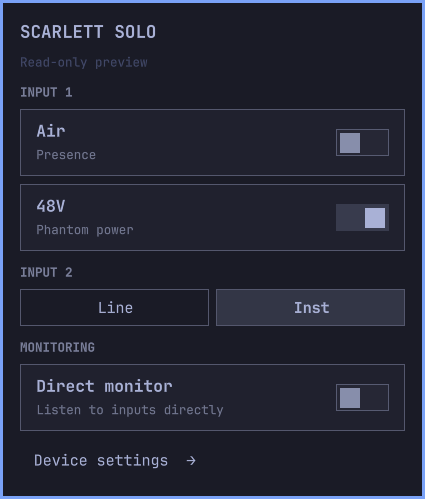
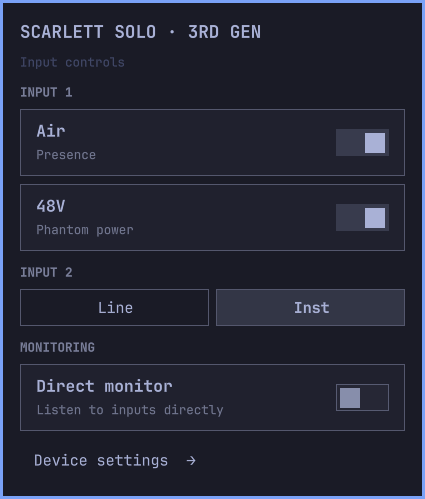
Clarify Scarlett use case and setup with refreshed screenshots

diff --git a/Panel.qml b/Panel.qml
@@ -17,6 +17,7 @@ Panel {
     property bool receivedState: false
     property bool deviceSettingsOpen: false
     property string helperPath: decodeURIComponent(Qt.resolvedUrl("bin/scarlett-helper").toString().replace(/^file:\/\//, ""))
+    readonly property string setupHelp: "Setup needed. Open a terminal and run:\ncd ~/.config/omarchy/plugins/davidkodar.scarlett && ./scripts/install.sh\nThen reopen this panel."
     implicitWidth: button.implicitWidth
     implicitHeight: button.implicitHeight
 
@@ -55,7 +56,8 @@ Panel {
             root.pending = 0
             timeout.stop()
             startupTimeout.stop()
-            if (!root.error) root.error = "Scarlett helper stopped. Reopen the panel to retry."
+            if (!root.error) root.error = root.receivedState
+                ? "Scarlett helper stopped. Reopen the panel to retry." : root.setupHelp
         }
     }
     Timer {
@@ -64,7 +66,7 @@ Panel {
         running: true
         onTriggered: {
             if (!root.receivedState) {
-                root.error = "Helper unavailable. Run make in the plugin directory, then reopen."
+                root.error = root.setupHelp
                 helper.running = false
             }
         }
@@ -138,7 +140,7 @@ Panel {
                         onClicked: root.deviceSettingsOpen = false
                     }
                     Text {
-                        text: root.deviceSettingsOpen ? "DEVICE SETTINGS" : "SCARLETT SOLO"
+                        text: root.deviceSettingsOpen ? "DEVICE SETTINGS" : "SCARLETT SOLO · 3RD GEN"
                         color: Color.foreground
                         font.family: Style.font.family
                         font.pixelSize: Style.font.title

diff --git a/docs/PUBLISHING.md b/docs/PUBLISHING.md
@@ -7,9 +7,11 @@ Checked 2026-09-08 against the official
 The marketplace requires a public GitHub repository with a root manifest,
 README, license, dependency documentation and safe install/removal instructions.
 Preview images are optional. Submissions are reviewed against a specific commit.
-The repository is public with owner approval; no marketplace submission has been made.
+The repository is public. [Submission #5777](https://github.com/omacom/omarchy-plugin-marketplace/issues/5777)
+was approved and published on September 10, 2026, at commit `7d97dca`.
+The local 0.1.1 update is prepared for separate marketplace review.
 
-Suggested listing:
+Prepared 0.1.1 listing:
 
 - Name: Scarlett for Omarchy
 - Category: Hardware
@@ -25,3 +27,20 @@ finish the qualification checklist, and review the official form at that time.
 Show the owner the completed submission and obtain approval before sending the
 marketplace issue. Future-model support belongs
 in the roadmap, not in the initial listing's compatibility claim.
+
+
+## Prepared presentation update
+
+Version 0.1.1 explains the bar-panel use case, identifies the supported generation,
+uses actual interface screenshots without the read-only test caption, shows an
+exact terminal setup command when the helper cannot start, and adds 48V restart
+help. The helper and hardware-control behavior are unchanged.
+
+On September 19 the live catalog still offered the standard add command with
+`--enable`, despite the manual build requirement disclosed in the original
+submission. The update request should explicitly ask maintainers to mark the
+listing as requiring manual setup and point users to the README.
+
+The marketplace counts install-command copies, not successful installations.
+At inspection the public counters showed 59 views and 0 copies; this does not
+establish the number of users or explain why visitors did not copy the command.

diff --git a/README.md b/README.md
@@ -1,13 +1,26 @@
 # Scarlett for Omarchy
 
-A small, theme-aware control panel for Focusrite interfaces, right in the
-Omarchy bar. Adjust **Air**, **48V**, **Line / Inst**, and **direct monitoring**
-without leaving your desktop. Less frequent options live in a separate Device
-settings view, keeping everyday controls quick to reach.
+**Your Focusrite controls, one click away in the Omarchy bar.**
 
-The plugin talks directly to the hardware controls exposed by Linux through
-ALSA. It follows the device's reported state and uses Omarchy's own theme and
-interface components. No separate control-panel application is required.
+Scarlett for Omarchy is a compact panel for switching **Air**, **48V phantom
+power**, **Line / Inst**, and **direct monitoring** without opening a separate
+control app. Switch from a microphone to an instrument, change your monitoring,
+or check 48V while staying in the app you're working in.
+
+It follows your Omarchy theme and the device's reported settings. Everyday
+controls stay in the main popup; **Device settings** holds the less frequent
+options, including **Remember 48V** and restart troubleshooting.
+
+**Currently supported: Focusrite Scarlett Solo (3rd Gen.), USB `1235:8211`.**
+Other Scarlett generations, Clarett, and Vocaster are on the roadmap and are not
+yet supported. This is a hardware control panel; it does not replace your normal
+system volume widget or provide an audio mixer or recorder.
+
+**Setup:** one terminal step is required after adding the plugin to compile its
+small helper. See [Install and update](#install-and-update). No separate
+control-panel app or additional driver is required.
+
+![Scarlett quick controls](docs/images/quick-controls.png)
 
 ## Built on my Solo, with room for the family
 

diff --git a/docs/VALIDATION.md b/docs/VALIDATION.md
@@ -133,3 +133,17 @@ guide below Remember 48V in Device settings. No hardware writes or system
 configuration changes were added. The guidance does not claim automatic conflict
 detection. Local manifest validation and both read-only UI smoke scenarios passed;
 the updated Device settings screenshot was visually checked.
+
+## Listing and setup clarity — 2026-09-19
+
+Prepared 0.1.1 with a descriptive marketplace name and summary, clearer README,
+explicit missing-helper setup instructions, and normal interface screenshots.
+All 16 hardware-free tests, local manifest validation, and both UI scenarios
+passed. Missing-helper coverage checks that the installer command is shown.
+
+The screenshot run used `SCARLETT_CAPTURE_LIVE=1` together with
+`SCARLETT_CAPTURE_DIR` so the helper reports its normal interactive state rather
+than a read-only test caption. The navigation test does not click audio controls;
+no audio values were changed for the screenshots. Ordinary test runs and the
+missing-helper scenario still use read-only mode. Both exported views were
+visually inspected, and the quick-controls image is the root marketplace preview.

diff --git a/docs/RELEASE.md b/docs/RELEASE.md
@@ -45,7 +45,8 @@ failures. Any release notes should disclose the remaining coverage limits.
 ## Publication steps
 
 - [x] Owner approved making the repository public; visibility changed and verified.
-- [ ] Review the final source/history, release notes and submission text.
-- [ ] Submit the public repository for listing with manual setup disclosed.
+- [x] Reviewed the initial source/history and approved submission text.
+- [x] Submitted as #5777; version 0.1.0 was published September 10, 2026.
+- [ ] Publish and request review of the prepared 0.1.1 presentation/help update.
 
 Do not publish or file the marketplace submission as a side effect of tests.
